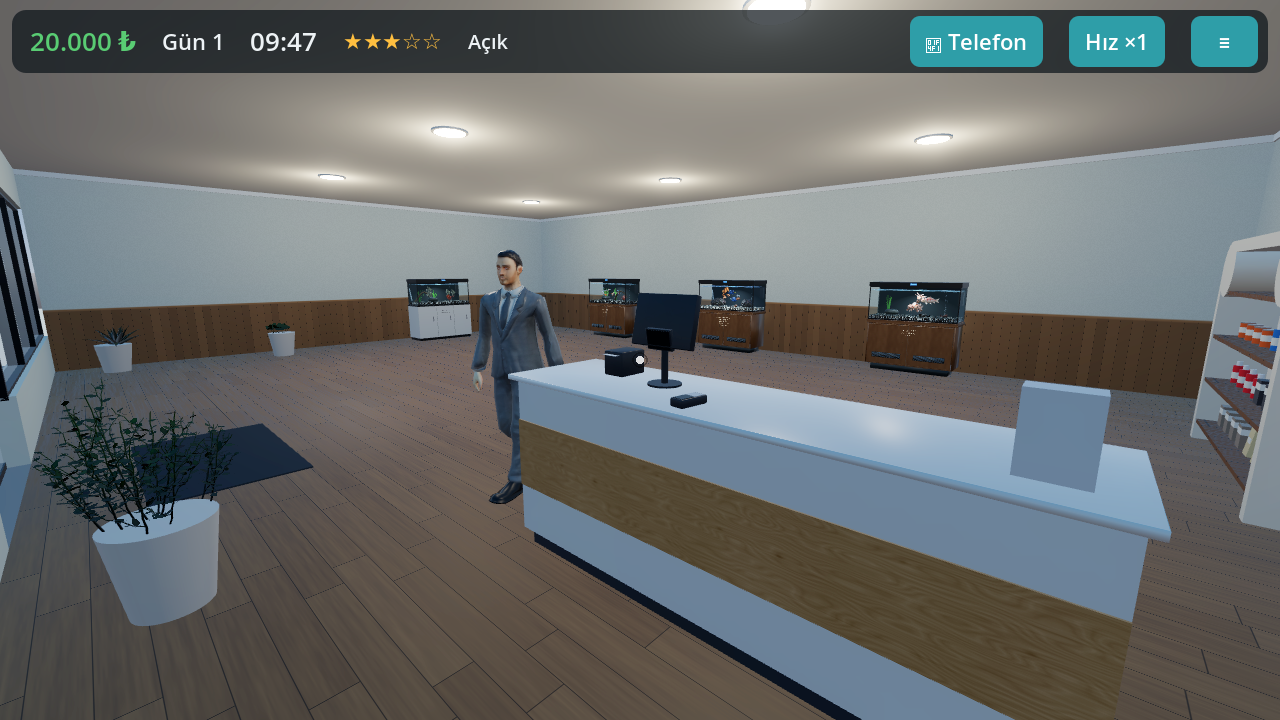
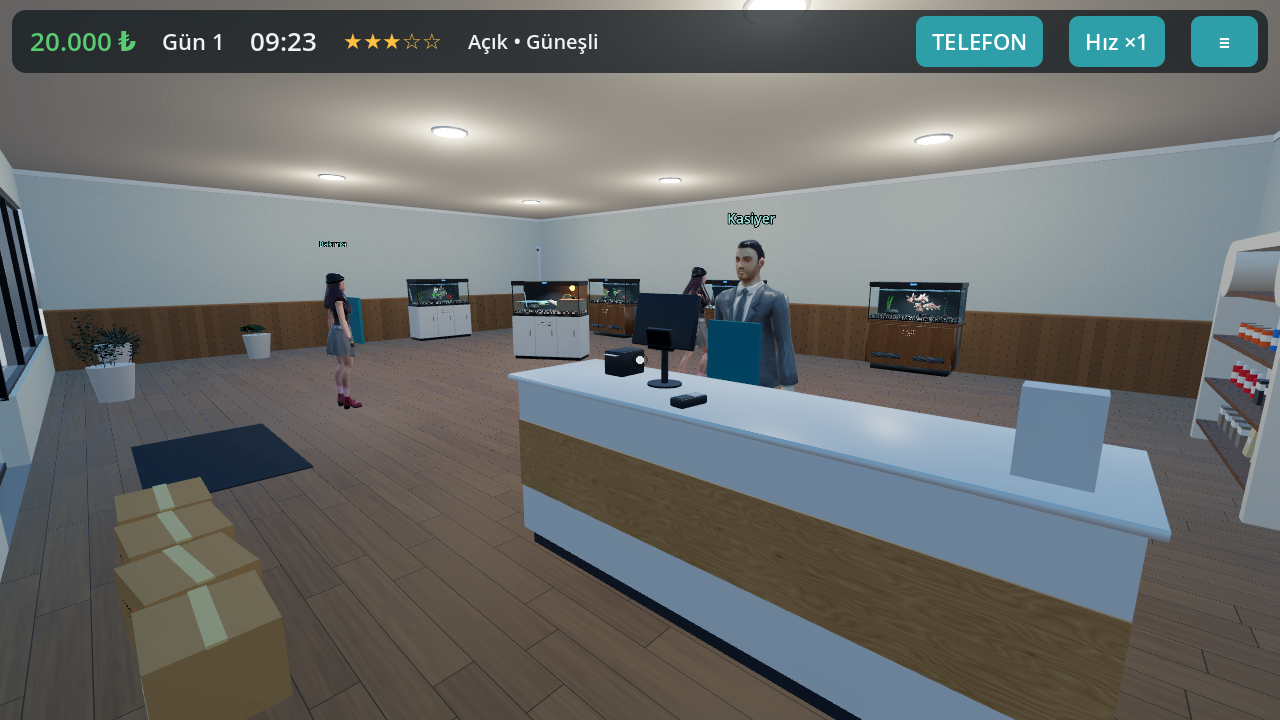
Grup 5: Kaplumbağa teraryumu, eller ve son dokunuşlar
- Teraryum mobilyası: kara parçası, rampa, ısı lambası
- Hazar kaplumbağası: prosedürel model (plakalı kabuk), yüzer, karaya çıkıp dinlenir
- Elde koli ve kepçe görünümü düzeltildi, koli teslim alanına eşya konamaz
- README ve oyun içi yardım tüm yeni özelliklerle güncellendi
- Testler 167'ye çıktı

Claude-Session: https://claude.ai/code/session_015MbJhkShsJQuf98rJJotUr

diff --git a/README.md b/README.md
@@ -9,6 +9,10 @@ müşteriler pazarlık eder ve kira her gün artar.
 ![Yerleştirme modu](docs/yerlestirme.png)
 ![Deniz tankı](docs/akvaryum.png)
 ![Kasa ve müşteriler](docs/kasa.png)
+![Elde koli](docs/koli.png)
+![Kepçe mini oyunu](docs/kepce.png)
+![Kaplumbağa teraryumu](docs/teraryum.png)
+![Akşam](docs/aksam.png)
 
 ## Açmak
 
@@ -49,13 +53,31 @@ müşteriler pazarlık eder ve kira her gün artar.
 - Bakım: yem, su değişimi, hastalık (beyaz benek), ölü balıkları çıkarma, tür uyumu, sıcaklık.
 - Her akşam artan kira ve elektrik ödenir (ısıtıcı, lamba, filtre). **3 gün üst üste borçta kalırsan dükkân kapanır.**
 
-## Balık türleri (20)
+### Daha fazlası
+- **Koliler:** Ürün siparişleri kapının yanına koli olarak gelir. Koliyi eline al, bir rafa bakıp diz ya da depoya koy (G).
+- **Dükkânı kişiselleştir:** TELEFON > Dükkân: tabela adı, duvar rengi, zemin. Dükkânı iki kez 4'er metre büyütebilirsin.
+- **Personel:** Kasiyer (sen yetişemezsen satışı yapar, şikâyetlere iade eder) ve bakımcı (yem, ölü balık, su değişimi).
+- **Gün ve hava:** Akşam dışarısı kararır; günlük hava durumu (yağmurda az müşteri gelir).
+- **Elektrik kesintisi:** Isıtıcı, filtre ve lambalar durur. Jeneratör alırsan etkilenmezsin.
+- **Müfettiş:** Habersiz gelir; kirli su, ölü balık, hastalık, yanlış sıcaklık görürse ceza keser.
+- **Yetiştirme ve nadir balıklar:** Bakımlı tanklarda 9 tür yavrular. Yavruların %3'ü nadir (Albino, Altın...) ve 6 kat değerlidir.
+- **Karantina:** Tedarikçiden gelen balıkların bir kısmı hastalık taşır. Önce karantina tankında gözlemle, sonra satış tankına taşı.
+- **Kepçe mini oyunu:** Balık satarken kepçeyle doğru balıkları yakala (ayarlardan kapatılabilir).
+- **Müşteriler:** İsimli müdavimler (sadakat), şikâyete gelenler (iade/ret), soru soranlar (doğru cevaba bahşiş),
+  hırsızlar (güvenlik kamerası yakalar), cama vuran çocuklar (uyar), özel sipariş verenler (%50 fazla öder).
+- **Ekonomi:** Günlük değişen toptancı fiyatları, kampanya, sosyal medya (tank fotoğrafı paylaş, takipçi kazan),
+  banka kredisi, şube açma, her 7. gün akvaryum yarışması.
+- **Kaplumbağa teraryumu:** Karası ve ısı lambası olan teraryumda Hazar kaplumbağası satabilirsin.
+- **Sesler:** Kapı zili, kasa, kabarcık, yağmur, alarm... (hepsi kodla sentezlenir).
+
+## Balık ve hayvan türleri (21)
 
 | Tatlı su | Tuzlu su |
 |---|---|
 | Lepistes, Neon Tetra, Zebra Danio, Siyah Moli, Diskus | Palyaço Balığı, Mavi Cerrah, Mandarin |
 | Japon Balığı\*, Beta\*, Melek Balığı\*, Koi\* | Aslan Balığı\*, Balon Balığı\*, Deniz Atı\* |
 | Pirana\*, Gümüş Arowana\*, Kedi Balığı\*, Gökkuşağı Alabalığı\* | Fener Balığı\* (nadir) |
+| Hazar Kaplumbağası (teraryumda) | |
 
 \* Gerçek 3D modelli türler (Palyaço, Cerrah, Mandarin dahil 15 tür). Diğerleri koddan üretilen modellerle gösterilir.
 
